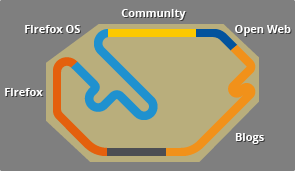
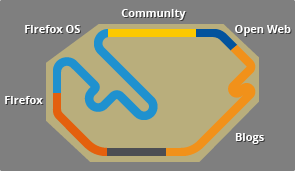
Fixed minimap.

diff --git a/bedrock/mocotw/templates/mocotw/2014review.html b/bedrock/mocotw/templates/mocotw/2014review.html
@@ -363,11 +363,11 @@
     <div id="nav-map">
       <img id="minimap" src="/media/img/mocotw/2014review/track-color-min.png" usemap="#minimap-nav"/>
       <map id="minimap-nav">
-        <area href="#firefox" id="nav-firefox" title="Firefox" alt="Firefox" shape="poly" coords="3, 63, 71, 62, 71, 111, 124, 168, 3, 168"/>
-        <area href="#firefoxos" id="nav-firefoxos" title="Firefox OS" alt="Firefox OS" shape="poly" coords="3, 3, 3, 58, 76, 58, 76, 109, 110, 147, 169, 103, 77, 3"/>
-        <area href="#community" id="nav-community" title="Community" alt="Community" shape="poly" coords="83, 3, 171, 100, 204, 4"/>
-        <area href="#openweb" id="nav-openweb" title="Open Web" alt="Open Web" shape="poly" coords="175, 99, 209, 4, 293, 4"/>
-        <area href="#blogs" id="nav-blogs" title="Blogs" alt="Blogs" shape="poly" coords="176, 103, 166, 169, 293, 169, 293, 10"/>
+        <area href="#firefox" id="nav-firefox" title="Firefox" alt="Firefox" shape="poly" coords="3, 96, 69, 96, 119, 170, 3, 168"/>
+        <area href="#firefoxos" id="nav-firefoxos" title="Firefox OS" alt="Firefox OS" shape="poly" coords="4, 4, 3, 92, 71, 92, 96, 129, 165, 129, 165, 87, 81, 3"/>
+        <area href="#community" id="nav-community" title="Community" alt="Community" shape="poly" coords="86, 3, 166, 82, 208, 4"/>
+        <area href="#openweb" id="nav-openweb" title="Open Web" alt="Open Web" shape="poly" coords="169, 85, 213, 4, 293, 4, 293, 46, 235, 46, 235, 46"/>
+        <area href="#blogs" id="nav-blogs" title="Blogs" alt="Blogs" shape="poly" coords="170, 90, 236, 50, 293, 51, 292, 169, 169, 169"/>
       </map>
       <svg id="minitrack" version="1.1"
            xmlns="http://www.w3.org/2000/svg" xmlns:xlink="http://www.w3.org/1999/xlink"

diff --git a/media/css/mocotw/2014review.less b/media/css/mocotw/2014review.less
@@ -1123,14 +1123,14 @@ body {
   }
   &.firefox {
     #nav-track {
-      stroke-dasharray: 125,675;
+      stroke-dasharray: 80, 720;
       stroke-dashoffset: 393;
     }
   }
   &.firefoxos {
     #nav-track {
-      stroke-dasharray: 235,515;
-      stroke-dashoffset: 213;
+      stroke-dasharray: 260, 470;
+      stroke-dashoffset: 238;
     }
   }
   &.community {
